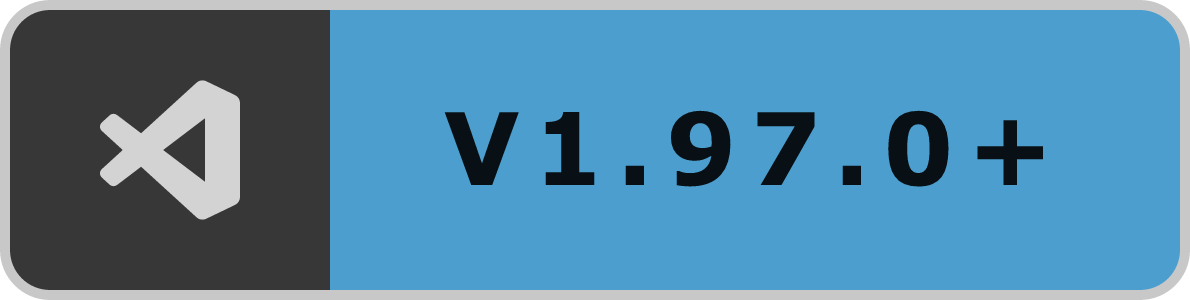
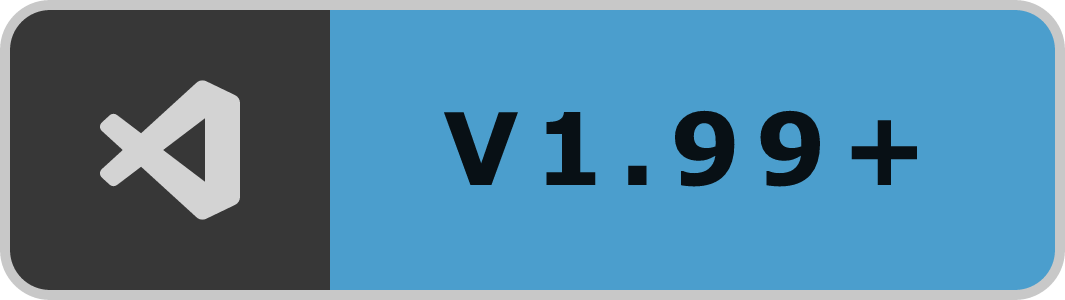
Fixed: badges

diff --git a/source/hooks/compileBadges.ts b/source/hooks/compileBadges.ts
@@ -7,7 +7,7 @@ import packageJSON from "../../package.json";
 
 const IMAGES_PATH = join(__dirname, "..", "..", "images");
 
-const VSCODE_VERSION = `v${packageJSON.engines.vscode.substring(1)}+`;
+const VSCODE_VERSION = `v${packageJSON.engines.vscode.substring(1).split(".").slice(0, 2).join(".")}+`;
 
 // Dynamics
 fetchModifySvg(
@@ -21,18 +21,18 @@ fetchModifySvg(
[1 lines of base64/hex data omitted]
   join(IMAGES_PATH, "badge-vscode.svg"),
   true,
-  true,
+  false,
   false,
 );
 fetchModifySvg(
[1 lines of base64/hex data omitted]
   join(IMAGES_PATH, "badge-downloads.svg"),
   true,
-  false,
+  true,
   false,
 );
 fetchModifySvg(
[2 lines of base64/hex data omitted]
   join(IMAGES_PATH, "badge-sponsors.svg"),
   true,
   false,
